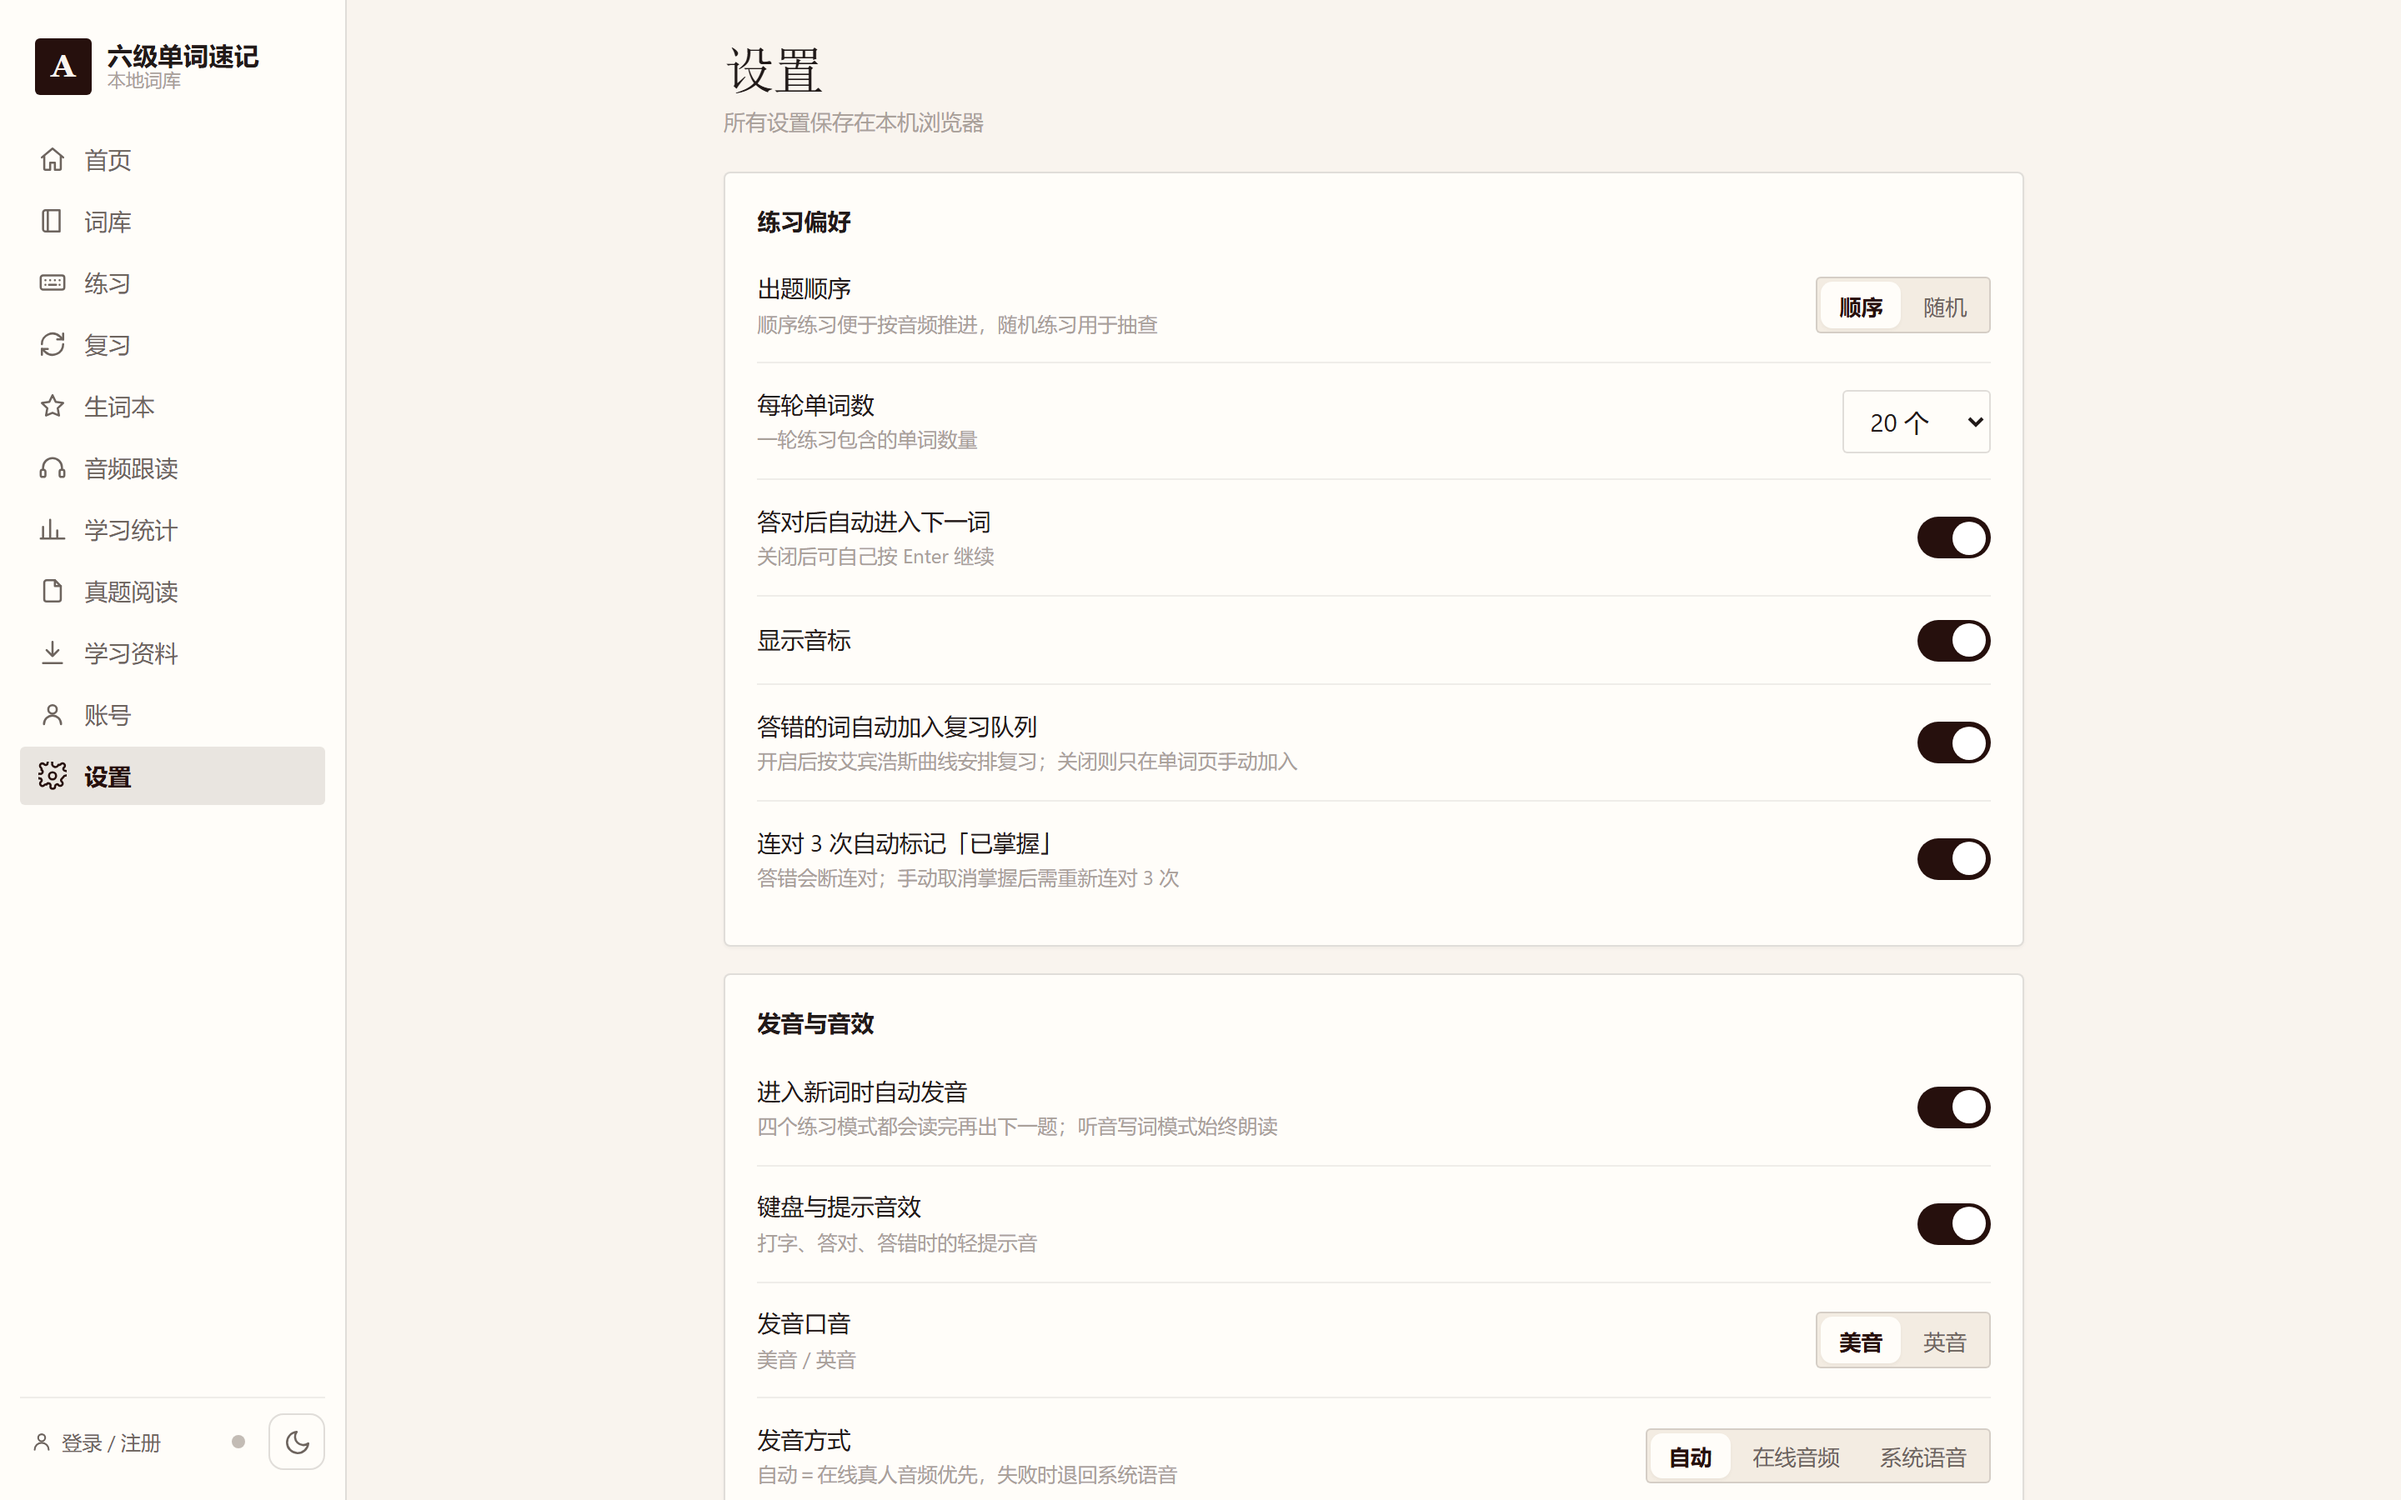
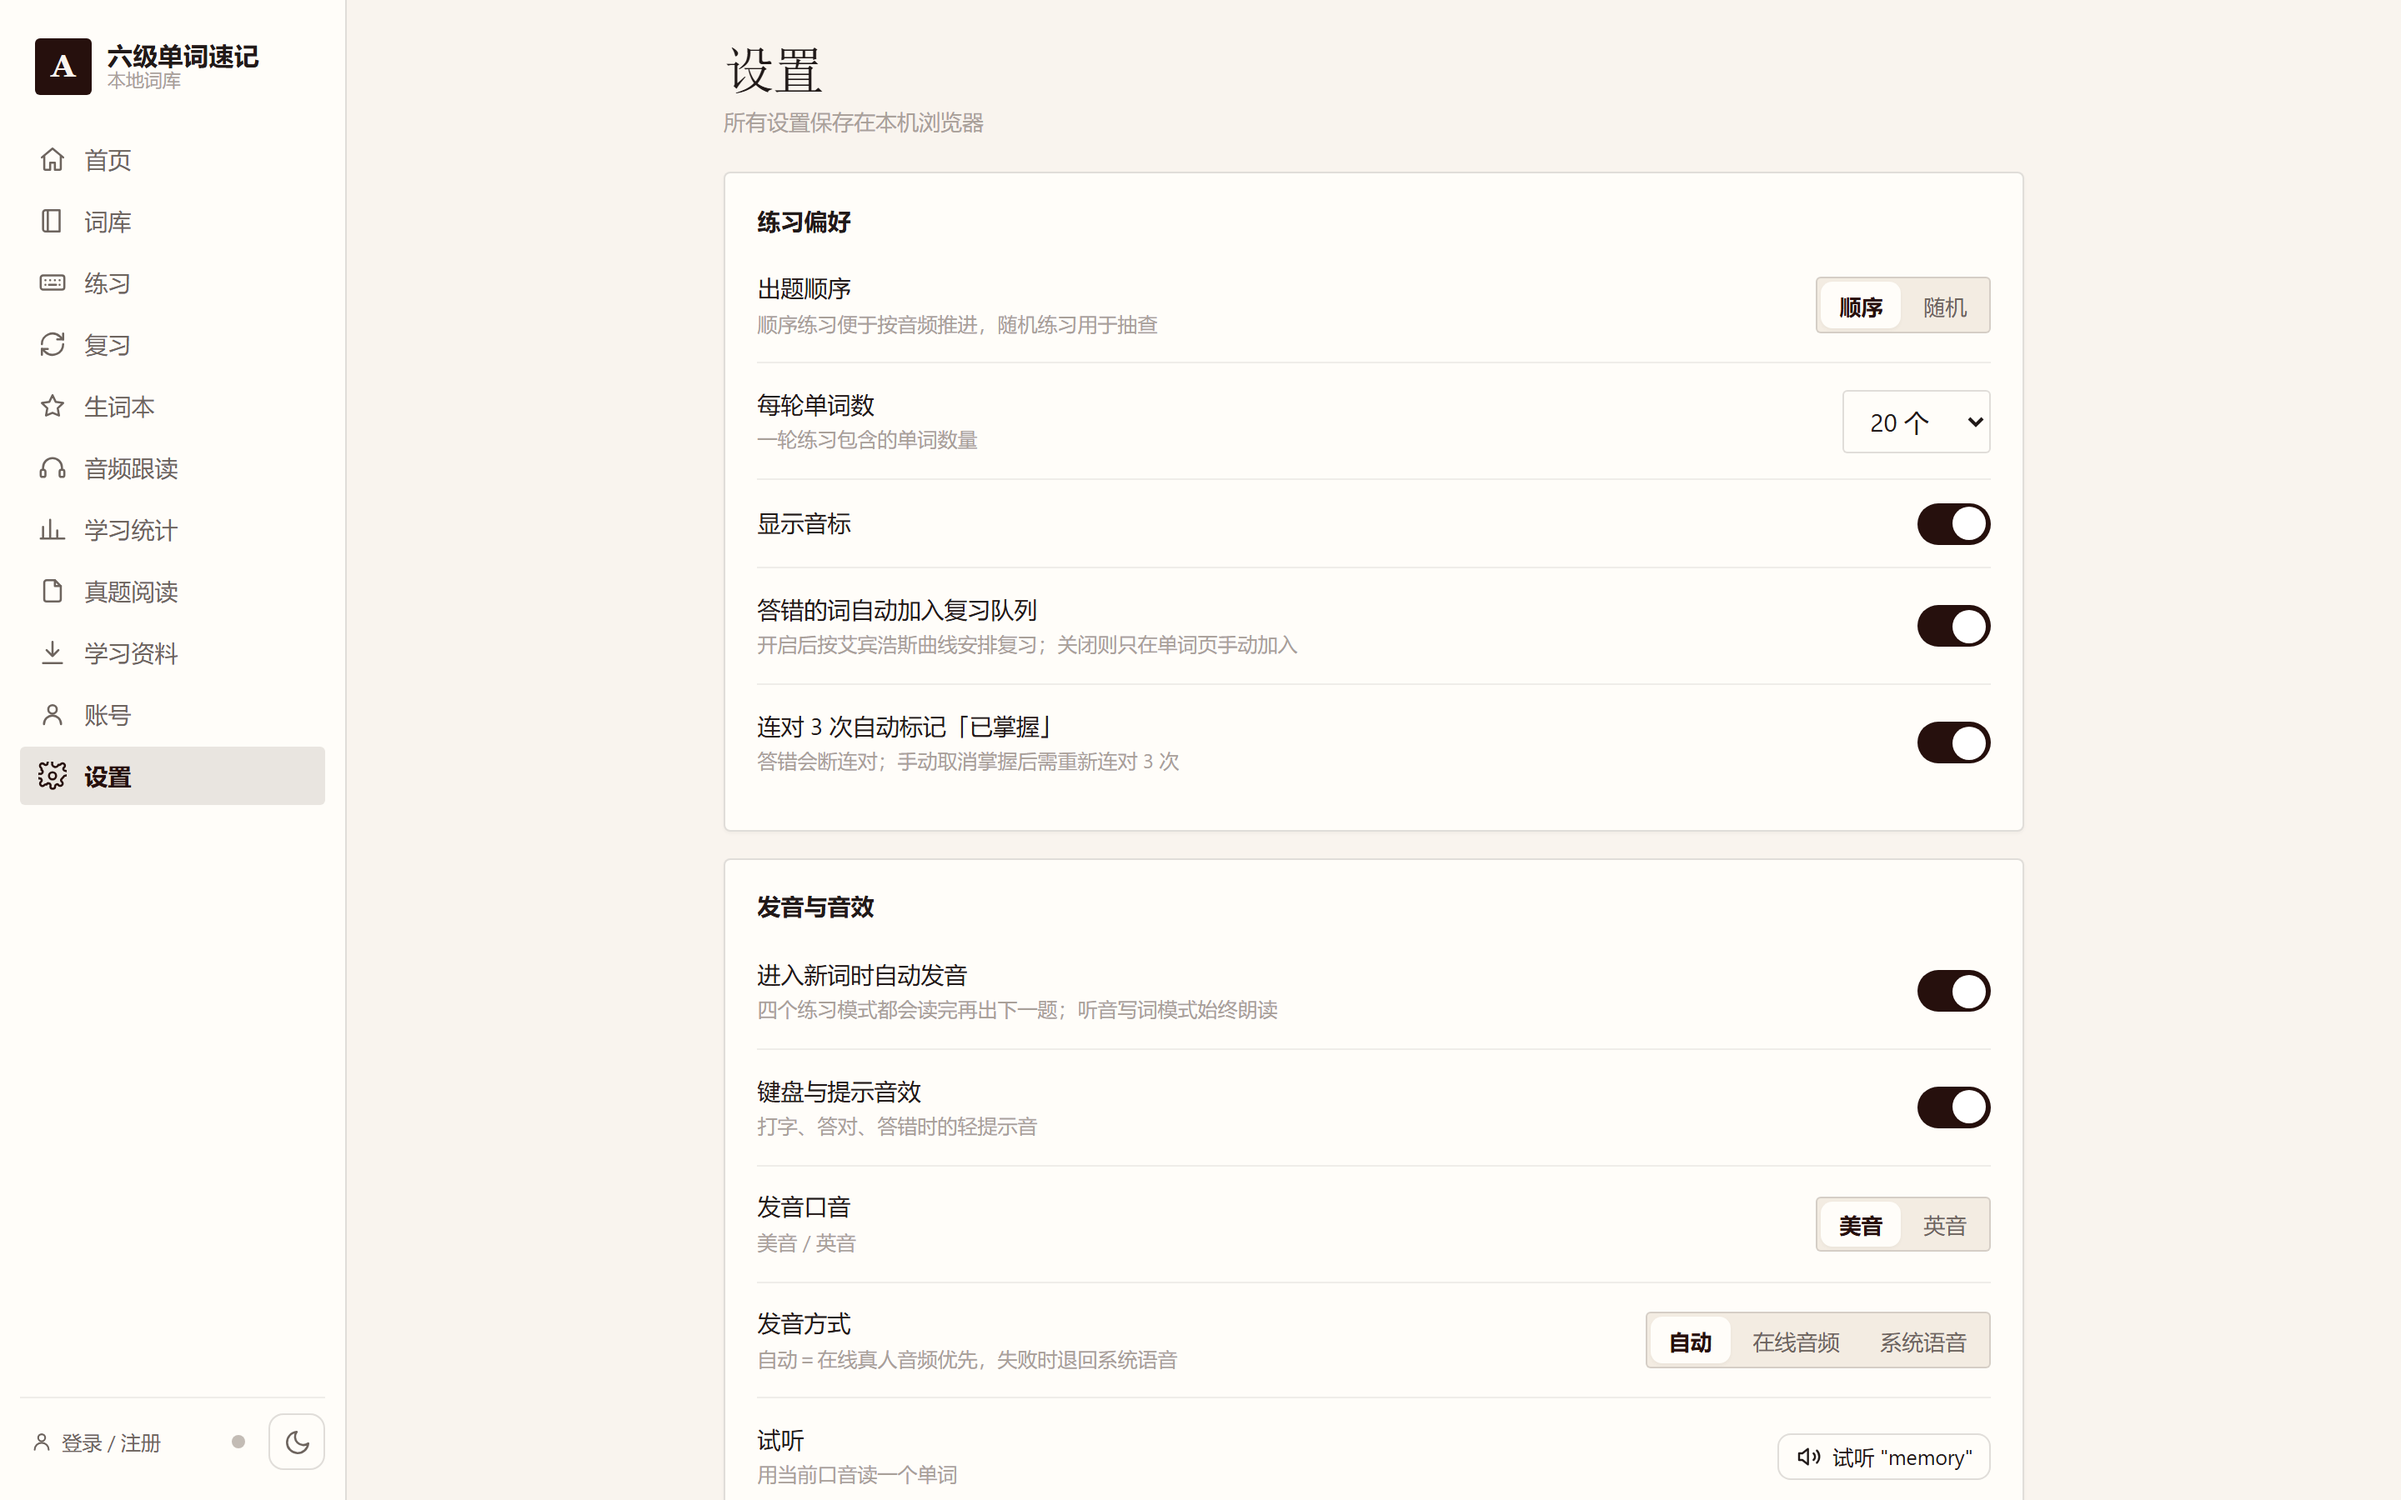
移除答对自动跳下一词 + 同步响应不再打断练习页
- 反馈页一律等用户 Enter/点「继续」：删掉 autoNext 的 750ms 自动 next（sunfleeting：
  没按 Enter 却自己跳了，想看释义都来不及），设置页同步删掉该开关
- 修「刚打完的单词突然消失/页面闪动」：登录后每次同步响应 applyRemote → emit('remote')
  → app.js 无条件整页 render()，练习页被重建丢输入。改为只在读数型视图（首页/复习/
  生词本）重渲染，交互中视图（练习/详解等）不动——进度本来就实时落库+会话续接
- verify_backend 新增 3.5 段（同步后输入框节点与内容原样，56/56）；
  practice/site 按新行为补「反馈页停留不自动跳」断言（92/92、107/107）

diff --git a/assets/js/views/practice.js b/assets/js/views/practice.js
@@ -727,9 +727,6 @@
         TW.speech.sound.correct();
         saveResume();
         showFeedback(w, true, '已照答案重打 ✓');
-        if (TW.store.settings.autoNext) {
-          setTimeout(function () { if (alive() && st.phase === 'feedback') next(); }, 750);
-        }
       }
 
       function grade(ok) {
@@ -753,7 +750,9 @@
         }
         saveResume();   // 反馈阶段快照指向下一题（见 saveResume 注释）
         showFeedback(w, ok);
-        if (ok && TW.store.settings.autoNext) setTimeout(function () { if (alive() && st.phase === 'feedback') next(); }, 750);
+        /* 🔴 不自动跳下一词（sunfleeting：反馈页没按 Enter 却自己跳了，不行）。
+           旧版这里有个 autoNext 设置：答对后 750ms 自动 next() —— 反馈页一闪而过、
+           想看释义/做笔记都来不及。现在一律等用户 Enter 或点「继续」。 */
       }
 
       /** 反馈页（判分后 / 重打成功后共用）：清掉输入区，渲染 答案+释义+工具条+继续 */

diff --git a/assets/js/app.js b/assets/js/app.js
@@ -164,10 +164,13 @@
     // 生词本 / 复习 / 首页需要实时刷新
     if (current.name === 'review' || current.name === 'home' || current.name === 'srs') render();
   });
-  // 云端数据合并回来后，界面跟着刷新一次
+  // 云端数据合并回来后界面跟着刷新 —— 但🔴**只在「读数型」视图**整页重渲染：
+  // 练习/详解这类交互中视图被 render() 重建会丢输入、闪屏（sunfleeting：打着字单词
+  // 突然消失——正是答题后 3.5s 防抖同步的响应回来触发了整页 render）。
+  // 练习页的进度本来就走 markRight/markWrong 实时落库 + 会话续接快照，无需重渲染。
   TW.store.on('remote', function () {
     renderNav(current.name);
-    render();
+    if (current.name === 'review' || current.name === 'home' || current.name === 'srs') render();
   });
 
   function boot() {

diff --git a/assets/js/views/settings.js b/assets/js/views/settings.js
@@ -30,7 +30,6 @@
                 return '<option value="' + n + '"' + (n === s.sessionSize ? ' selected' : '') + '>' + (n === 0 ? '全部' : n + ' 个') + '</option>';
               }).join('') +
             '</select></div>' +
-          switchRow('autoNext', '答对后自动进入下一词', '关闭后可自己按 Enter 继续') +
           switchRow('showPhonetic', '显示音标', '') +
           switchRow('srsAuto', '答错的词自动加入复习队列', '开启后按艾宾浩斯曲线安排复习；关闭则只在单词页手动加入') +
           switchRow('autoMaster', '连对 3 次自动标记「已掌握」', '答错会断连对；手动取消掌握后需重新连对 3 次') +

diff --git a/assets/js/store.js b/assets/js/store.js
@@ -19,7 +19,6 @@
     accent: 'us',          // 发音口音 us | uk
     speakMode: 'auto',     // 发音通道 auto 在线音频优先(失败回退系统语音) | audio 只用在线音频 | tts 只用系统语音
     keySound: true,        // 键盘音效
-    autoNext: true,        // 答对后自动进入下一词
     srsAuto: true,         // 答错的词自动加入复习队列
     autoMaster: true       // 连对 3 次自动标记「已掌握」（sunfleeting 要求的自动化）
   };

diff --git a/tools/verify_backend.py b/tools/verify_backend.py
@@ -191,6 +191,26 @@ def main():
             check("云端有复习队列条目 apple", srv["srs"], True)
             check("云端有当日练习量", srv["day"], {"done": 2, "right": 1})
 
+            # ============ 3.5) 同步响应不得打断练习页 ============
+            # 旧 bug：每次同步响应都 applyRemote → emit('remote') → 整页 render()，
+            # 练习页被重建 ⇒ 打了一半的单词突然消失、页面闪一下（sunfleeting 实测反馈）。
+            # 修复后 remote 只重渲染读数型视图（首页/复习/生词本），交互中视图不动。
+            log("\n--- 3.5) 同步响应回来不重渲染练习页 ---")
+            goto(pgA, "#/practice?book=week1&mode=type")
+            pgA.fill("#p-input", "abc")
+            pgA.evaluate("() => { window.__twNode = document.querySelector('#p-input'); }")
+            pgA.evaluate("""() => {
+              const w = TW.WORDS.find(x => { const p = TW.store.get(x.id); return !p || !p.seen; });
+              if (w) TW.store.markRight(w.id);       // 造一条脏数据
+            }""")
+            chk2 = pgA.evaluate("() => TW.sync.flush(true)")
+            check("3.5 手动同步成功", chk2, True)
+            same = pgA.evaluate("""() => {
+              const el = document.querySelector('#p-input');
+              return el && el === window.__twNode && el.value === 'abc';
+            }""")
+            check("同步响应回来输入框节点与内容原样（未整页重渲染）", same, True)
+
             # ============ 4) 合并规则：计数取 max（幂等）============
             log("\n--- 4) 合并规则（计数取 max，不回退）---")
             merge = pgA.evaluate("""async (wid) => {

diff --git a/tools/verify_practice.py b/tools/verify_practice.py
@@ -279,6 +279,8 @@ def main():
             check("答对后进入反馈（出现「继续」按钮）", act_count(pg, "next"), 1)
             check("反馈阶段输入框已被移除", pg.locator("#p-input").count(), 0)
             check("反馈阶段焦点回到 body（键盘交给文档级监听）", active_tag(pg), "BODY")
+            pg.wait_for_timeout(1300)   # 旧版 autoNext 会在 750ms 自动跳 —— 已按需求移除
+            check("答对反馈不自动跳下一个（等用户按 Enter）", act_count(pg, "next"), 1)
             press("Enter")
             check("反馈阶段 Enter 能继续到下一词", pg.locator("#p-input").count(), 1)
             check("继续后确实换了词", stage_word(pg) != w_typed, True)
@@ -662,6 +664,8 @@ def main():
             check("照着打对后进入反馈（出现继续按钮）", act_count(pg, "next"), 1)
             check("反馈提示「已照答案重打」",
                   "已照答案重打" in pg.evaluate("() => document.body.innerText"), True)
+            pg.wait_for_timeout(1300)
+            check("重打成功的反馈也不自动跳（等用户按 Enter）", act_count(pg, "next"), 1)
             check("本题记的是答错（w+1，不算答对）",
                   pg.evaluate("""(id) => {
                     const p = TW.store.get(id);

diff --git a/tools/verify_site.py b/tools/verify_site.py
@@ -176,10 +176,11 @@ def main():
         feedback = pg.evaluate("() => document.body.innerText")
         check("答对后出现「正确」提示", "正确" in feedback, True)
         pg.screenshot(path=str(SHOTS / "14-practice-correct.png"))
-        # 等自动跳转（autoNext 延迟 750ms）走完再读进度
-        pg.wait_for_timeout(1300)
+        # 反馈页不再自动跳下一词（autoNext 已移除）——显式按 Enter 继续，再读进度
+        pg.keyboard.press("Enter")
+        pg.wait_for_timeout(700)
         pos_txt = pg.evaluate("() => TW.$('#p-pos').textContent")
-        check("进度已推进到第 2 词", "第 2 " in pos_txt, True)
+        check("按 Enter 后进度推进到第 2 词", "第 2 " in pos_txt, True)
 
         # ---------- 练习：答错先给一次重做机会，再错才判错 ----------
         goto("#/practice?book=week1&mode=recall&size=10")
